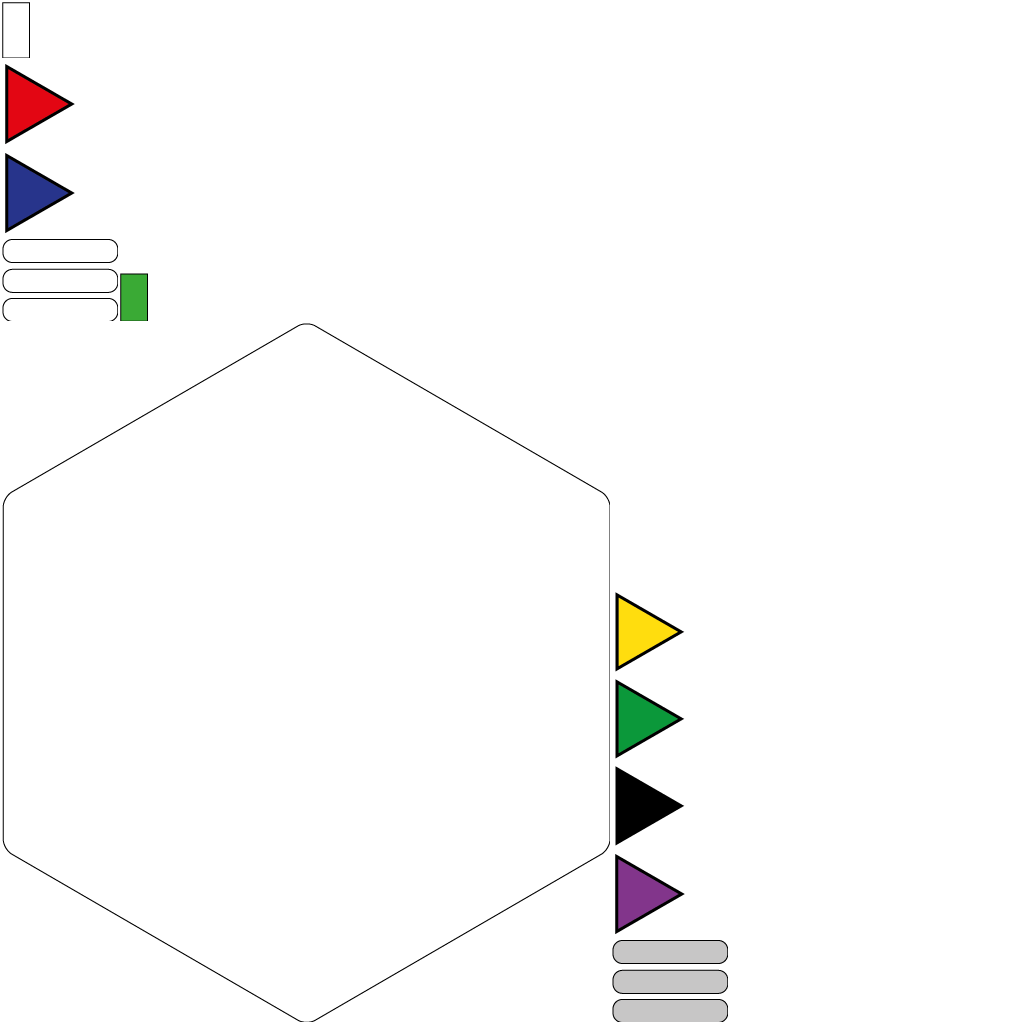
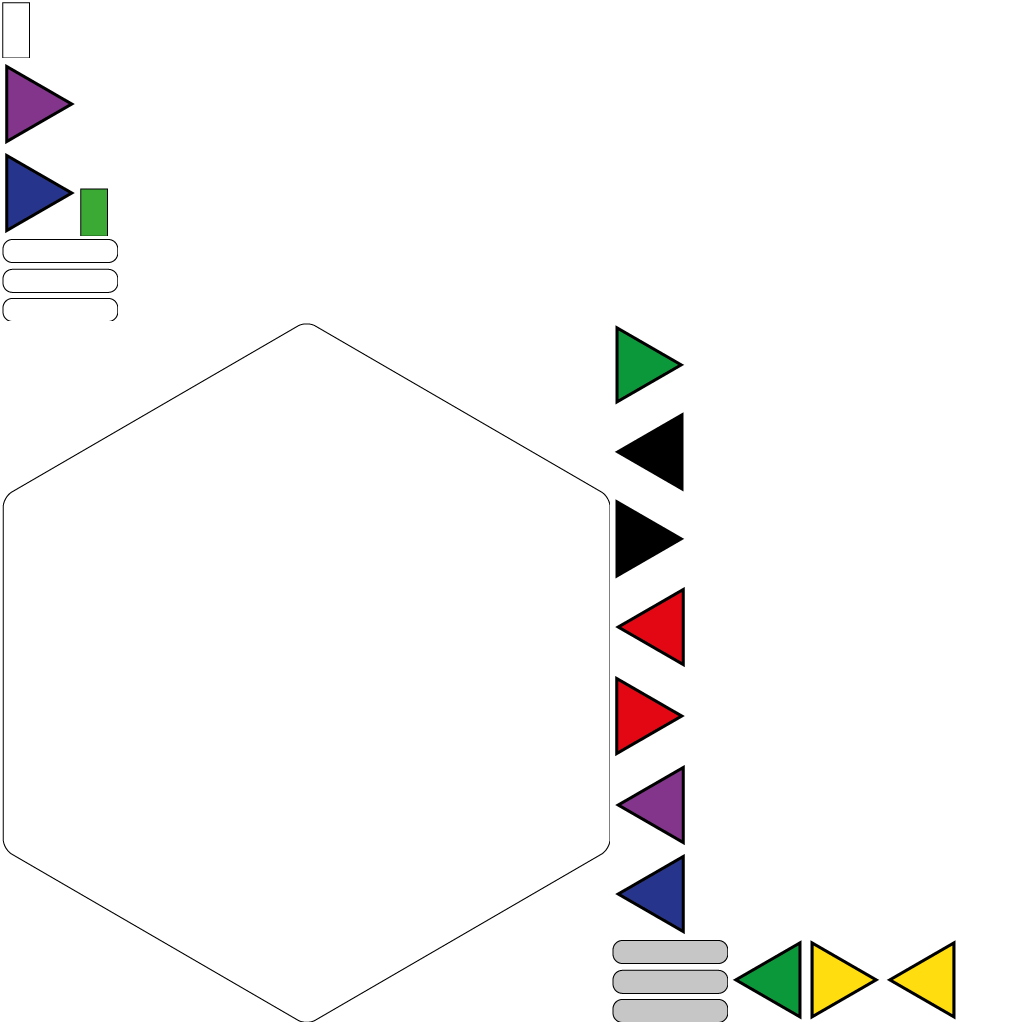
started to replace rendering with scene2d

diff --git a/core/src/io/github/vovinhd/hexacrush/screens/GameScreen.java b/core/src/io/github/vovinhd/hexacrush/screens/GameScreen.java
@@ -1,181 +1,50 @@
 package io.github.vovinhd.hexacrush.screens;
 
-import io.github.vovinhd.hexacrush.service.AssetService;
-import io.github.vovinhd.hexacrush.simulation.GameState;
-import io.github.vovinhd.hexacrush.simulation.Simulation;
-import io.github.vovinhd.hexacrush.simulation.Tile;
-import io.github.vovinhd.hexacrush.simulation.TriCoords;
-import io.github.vovinhd.hexacrush.simulation.TriGrid;
-
-import com.badlogic.gdx.Gdx;
 import com.badlogic.gdx.ScreenAdapter;
-import com.badlogic.gdx.graphics.GL20;
-import com.badlogic.gdx.graphics.OrthographicCamera;
-import com.badlogic.gdx.graphics.Texture;
-import com.badlogic.gdx.graphics.g2d.Sprite;
 import com.badlogic.gdx.graphics.g2d.SpriteBatch;
-import com.badlogic.gdx.graphics.g2d.TextureAtlas;
-import com.badlogic.gdx.graphics.g2d.TextureRegion;
-import com.badlogic.gdx.math.Matrix3;
-import com.badlogic.gdx.math.Vector2;
-import com.badlogic.gdx.scenes.scene2d.ui.ImageButton;
-import com.badlogic.gdx.scenes.scene2d.utils.SpriteDrawable;
+import com.badlogic.gdx.scenes.scene2d.Stage;
+import com.badlogic.gdx.utils.viewport.ScreenViewport;
+import com.badlogic.gdx.utils.viewport.Viewport;
 
 public class GameScreen extends ScreenAdapter {
 
-	private static final float TRI_SIZE = 70;
-
-	private Simulation simulation = new Simulation(); 
 	
-	private Matrix3 rotate45; 
-	private int gridX; 
-	private int gridY; 
-	private int triSideLength; 
-	float sqrt2 = (float) (1/Math.sqrt(2)); 
-	
-	
-	Vector2 shearVecX = new Vector2(sqrt2, sqrt2); 
-	Vector2 shearVexY = new Vector2(-sqrt2, sqrt2); 
-	
+	private Stage stage;
+	private Viewport viewport; 
 	private SpriteBatch batch; 
-	private OrthographicCamera camera; 
 
-	private TextureAtlas atlas = AssetService.getInstance().getTextureAtlas(); 	
-	private TextureRegion redTri; 
-	private TextureRegion blueTri; 
-	private TextureRegion yellowTri; 
-	private TextureRegion purpleTri; 
-	private TextureRegion greenTri; 
-	private TextureRegion blackTri; 
-	private TextureRegion background;
-	private ImageButton menu; 
-	
 	@Override
 	public void render(float delta) {
-		Gdx.graphics.getGL20().glClearColor( 0, 0, 0, 1 );
-		Gdx.graphics.getGL20().glClear( GL20.GL_COLOR_BUFFER_BIT | GL20.GL_DEPTH_BUFFER_BIT );
-
-		simulation.act(null); //TODO replace with logic 
-		GameState state = simulation.getGameState(); 
-		TriGrid triGrid = state.getTileGrid(); 
-		Tile[][][] grid = triGrid.getGrid();
-		batch.begin();
-		for (int u = 0; u < triGrid.getSize(); u++) {
-			for (int v = 0; v < triGrid.getSize(); v++) {
-				Tile[] cell = grid[u][v]; 
-				if(cell[TriCoords.LEFT] != null) { 
-					renderTri(u, v, true, cell[TriCoords.LEFT]);
-				}
-				if(cell[TriCoords.RIGHT] != null) { 
-					renderTri(u, v, false, cell[TriCoords.RIGHT]);
-				}
-			}
-		}
-		batch.end();
-		
+		// TODO Auto-generated method stub
 		super.render(delta);
 	}
 
-	private Matrix3 gridTransform(){
-		Matrix3 transform = new Matrix3(); 
-		
-		//init
-		transform.idt();
-		transform.translate(new Vector2(gridX, gridY)); 
-
-		//rotate sharp end to top 
-		//transform.rotate(90f); 
-
-		
-		//shear 45°, scale to size 
-		transform.mul(new Matrix3(
-			new float[] {
-				 sqrt2, sqrt2, 0.0f,
-				-sqrt2, sqrt2, 0.0f,
-				 0.0f,   0.0f, 1.0f
-			}
-		));
-		
-		
-		////translate to grid origin
-		
-		return transform; 
-	}
-	
-	private void renderTri(int u, int v, boolean flip, Tile t) {
-		float rotation = flip ? 90 : 270; 
-
-		Vector2 pos = new Vector2(); 
-		pos.x = u; 
-		pos.y = v; 
-		pos = pos.scl(TRI_SIZE); 
-				
-		pos = pos.mul(gridTransform()); 
-		
-		Gdx.app.log("Pos", pos.toString());
-		
-		switch(t) {
-		case RED: 
-			batch.draw(redTri, pos.x, pos.y, 0, 0, 70, 70, 1, 1, rotation, true); 
-			break; 
-		case YELLOW: 
-			batch.draw(yellowTri, pos.x, pos.y, 0, 0, 70, 70, 1, 1, rotation, true); 
-			break; 
-		case PURPLE: 
-			batch.draw(purpleTri, pos.x, pos.y, 0, 0, 70, 70, 1, 1, rotation, true); 
-			break; 
-		case GREEN: 
-			batch.draw(greenTri, pos.x, pos.y, 0, 0, 70, 70, 1, 1, rotation, true); 
-			break; 
-		case BLUE: 
-			batch.draw(blueTri, pos.x, pos.y, 0, 0, 70, 70, 1, 1, rotation, true); 
-			break; 
-		case BLACK: 
-			batch.draw(blackTri, pos.x, pos.y, 0, 0, 70, 70, 1, 1, rotation, true); 
-			break; 
-		default: 
-			Gdx.app.log("WAT", "WAT");
-		}
+	@Override
+	public void resize(int width, int height) {
+		// TODO Auto-generated method stub
+		super.resize(width, height);
 	}
 
 	@Override
 	public void show() {
-		
-		//init sprites and ui 
-		redTri = atlas.findRegion("assets-tri-red"); 
-		blueTri = atlas.findRegion("assets-tri-blue"); 
-		yellowTri = atlas.findRegion("assets-tri-yellow"); 
-		purpleTri = atlas.findRegion("assets-tri-purple"); 
-		greenTri = atlas.findRegion("assets-tri-green"); 
-		blackTri = atlas.findRegion("assets-tri-black"); 
-		background = atlas.findRegion("assets-border");
-		
-		menu = new ImageButton (new SpriteDrawable(atlas.createSprite("assets-menu")),
-				new SpriteDrawable(atlas.createSprite("assets-menu-pressed"))); 
-		
-		//init render context 
+		viewport = new ScreenViewport(); 
 		batch = new SpriteBatch(); 
-		camera = new OrthographicCamera(); 
-		rotate45 = new Matrix3(); 
-		rotate45.setToRotation(135); 
-		gridX = Gdx.graphics.getWidth() / 2;
-		gridY = Gdx.graphics.getHeight() / 8;  
-			
+		stage = new Stage(viewport, batch); 
 		super.show();
 	}
 
-	public TextureRegion createTri(String texname, boolean flip) {
-		 TextureRegion region = atlas.findRegion(texname); 
-		 region.flip(flip, false);
-		 return region;
+	@Override
+	public void resume() {
+		// TODO Auto-generated method stub
+		super.resume();
 	}
-	
+
 	@Override
 	public void dispose() {
-		atlas.dispose();
-		batch.dispose();
+		// TODO Auto-generated method stub
 		super.dispose();
-	}
+	} 
+	
 	
 	
 }

diff --git a/core/src/io/github/vovinhd/hexacrush/graphics/TileActorFactory.java b/core/src/io/github/vovinhd/hexacrush/graphics/TileActorFactory.java
@@ -1,0 +1,92 @@
+package io.github.vovinhd.hexacrush.graphics;
+
+import io.github.vovinhd.hexacrush.service.AssetService;
+import io.github.vovinhd.hexacrush.simulation.Tile;
+import io.github.vovinhd.hexacrush.simulation.TriCoords;
+
+import com.badlogic.gdx.graphics.g2d.Sprite;
+import com.badlogic.gdx.graphics.g2d.TextureAtlas;
+import com.badlogic.gdx.graphics.g2d.TextureRegion;
+
+public class TileActorFactory {
+
+	private static TileActorFactory instance; 
+	
+	private final TextureAtlas atlas; 
+	
+	private final TextureRegion redTri; 
+	private final TextureRegion redTriFlop; 
+	private final TextureRegion yellowTri; 
+	private final TextureRegion yellowTriFlop; 	
+	private final TextureRegion blueTri; 
+	private final TextureRegion blueTriFlop; 	
+	private final TextureRegion blackTri; 
+	private final TextureRegion blackTriFlop; 	
+	private final TextureRegion greenTri; 
+	private final TextureRegion greenTriFlop; 	
+	private final TextureRegion purpleTri; 
+	private final TextureRegion purpleTriFlop; 	
+		
+	private TileActorFactory(){ 
+		this.atlas = AssetService.getInstance().getTextureAtlas(); 
+		this.redTri = atlas.findRegion("assets-tri-red"); 
+		this.redTriFlop = atlas.findRegion("assets-tri-red-flop"); 
+		this.yellowTri = atlas.findRegion("assets-tri-yellow"); 
+		this.yellowTriFlop = atlas.findRegion("assets-tri-yellow-flop"); 
+		this.blueTri = atlas.findRegion("assets-tri-blue"); 
+		this.blueTriFlop = atlas.findRegion("assets-tri-blue-flop"); 
+		this.blackTri = atlas.findRegion("assets-tri-black"); 
+		this.blackTriFlop = atlas.findRegion("assets-tri-black-flop"); 
+		this.greenTri = atlas.findRegion("assets-tri-green"); 
+		this.greenTriFlop = atlas.findRegion("assets-tri-green-flop"); 
+		this.purpleTri = atlas.findRegion("assets-tri-purple"); 
+		this.purpleTriFlop = atlas.findRegion("assets-tri-purple-flop"); 
+	}
+
+	private static TileActorFactory getInstance() { 
+		if (instance == null)  
+			instance = new TileActorFactory(); 
+		return instance; 
+	}
+	
+	public static TileActor generate(Tile t, int side) {
+		
+		TileActorFactory instance = getInstance();
+		
+		if(side == TriCoords.LEFT) {
+			switch(t){
+			case RED:
+				return new TileActor(new Sprite(instance.redTriFlop));
+			case YELLOW:
+				return new TileActor(new Sprite(instance.yellowTriFlop));
+			case BLUE:
+				return new TileActor(new Sprite(instance.blueTriFlop));
+			case BLACK:
+				return new TileActor(new Sprite(instance.blackTriFlop));
+			case GREEN:
+				return new TileActor(new Sprite(instance.greenTriFlop));
+			case PURPLE:
+				return new TileActor(new Sprite(instance.purpleTriFlop));
+			default: return null;
+			}
+		} else {
+			switch(t){
+			case RED:
+				return new TileActor(new Sprite(instance.redTri));
+			case YELLOW:
+				return new TileActor(new Sprite(instance.yellowTri));
+			case BLUE:
+				return new TileActor(new Sprite(instance.blueTri));
+			case BLACK:
+				return new TileActor(new Sprite(instance.blackTri));
+			case GREEN:
+				return new TileActor(new Sprite(instance.greenTri));
+			case PURPLE:
+				return new TileActor(new Sprite(instance.purpleTri));
+			default: return null; 
+			}
+		}
+		
+	}
+	
+}

diff --git a/core/src/io/github/vovinhd/hexacrush/graphics/TileActor.java b/core/src/io/github/vovinhd/hexacrush/graphics/TileActor.java
@@ -1,0 +1,44 @@
+package io.github.vovinhd.hexacrush.graphics;
+
+import com.badlogic.gdx.graphics.g2d.Batch;
+import com.badlogic.gdx.graphics.g2d.Sprite;
+import com.badlogic.gdx.math.Vector2;
+import com.badlogic.gdx.scenes.scene2d.Actor;
+
+public class TileActor extends Actor {
+	private Sprite tileSprite; 
+	private boolean flip = false; 
+	
+	public TileActor(Sprite sprite) { 
+		this.tileSprite = new Sprite(sprite); 
+	}
+	
+	public TileActor(Sprite sprite, boolean flip) { 
+		this(sprite);
+		this.flip = flip; 
+	}
+
+	@Override
+	public void draw(Batch batch, float parentAlpha) {
+		
+		tileSprite.draw(batch);
+	}
+
+	@Override
+	public void setPosition(float x, float y) {
+		tileSprite.setPosition(x, y);
+		super.setPosition(x, y);
+	}
+
+	@Override
+	public void setSize(float width, float height) {
+		tileSprite.setSize(width, height);
+		super.setSize(width, height);
+	}
+
+	public void flip(){
+		flip = !flip; 
+		tileSprite.flip(flip, false);
+	}
+	
+}
